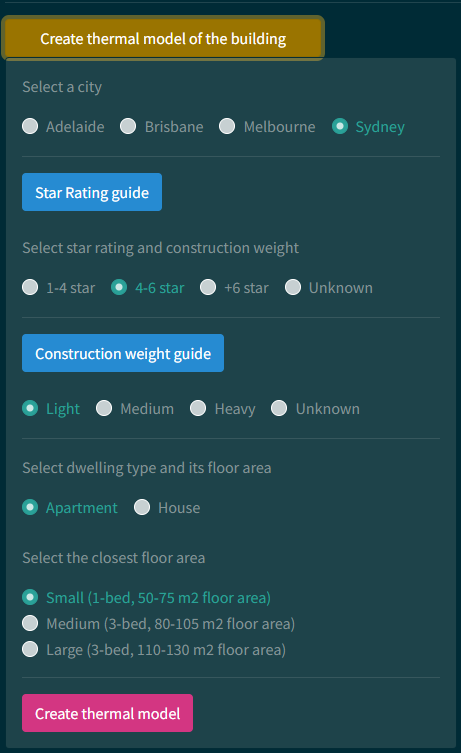
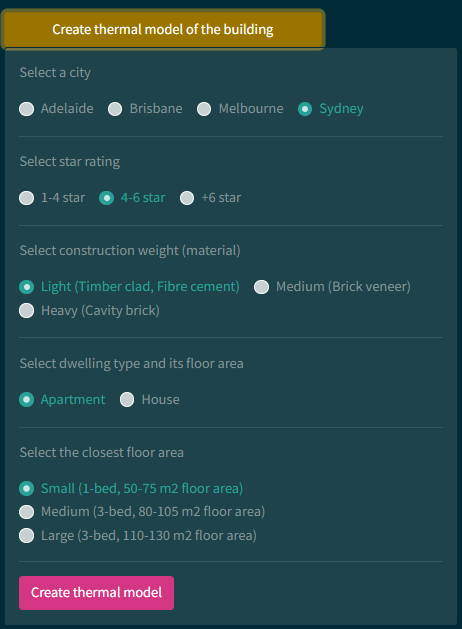
Readme modified

diff --git a/application.py b/application.py
@@ -5,11 +5,8 @@ import callbacks  # noqa: F401
 import callbacks_run  # noqa: F401
 from app import app, application
 from app_components import (
-    AC_year_radio_item,
     PV_orientation_radio_item,
     construction_weight_radio_item,
-    construction_weight_toast,
-    # demand_profile_radio_item,
     demand_questions_radio_item,
     dwelling_type_radio_item,
     floor_area_radio_item,
@@ -18,9 +15,6 @@ from app_components import (
     neutral_temp_select,
     occupancy_checklist,
     star_rating_radio_item,
-    star_rating_toast,
-    tariff_radio_checklist,
-    tariff_table,
     create_tariff_drpdwn,
 )
 
@@ -270,8 +264,7 @@ app.layout = dbc.Container(
                 # Solar Pre-cooling Potential Assessment Tool
 
                 
-                [User guide]  (https://respct.readthedocs.io/en/latest/index.html#)
-                  [Source code](https://github.com/ShayanNaderi/RESPCT) 
+                [Source code and user guide](https://github.com/ShayanNaderi/RESPCT) 
 
                 """,
                             style={"color": "green"},

diff --git a/README.md b/README.md
@@ -15,10 +15,10 @@ Badges can go here
 ## pre-cooling and solar pre-cooling background
 
 Pre-cooling means running the air conditioning (AC) before peak periods, and reducing the indoor temperautre
-below the temperature that is usaully set by occupants. The reduciton of indoor temperature then reduces the temperature
-of thermal mass in the buildings, and the cooled down thermal mass results in lower cooling demand later in the day.
+below the temperature that is usaully set by occupants. The reduction of indoor temperature then reduces the temperature
+of thermal mass in the building, and the cooled down thermal mass results in lower cooling demand later in the day.
 
-If the surplus PV generation from rooftop PV systems is used to pre-cool the building, instead of the imported
+If the surplus PV generation from the rooftop PV system is used to pre-cool the building instead of the imported
 electricity from the grid, it is defined as solar pre-cooling. to learn more about pre-cooling and solar pre-cooling
 please refer to the following papers:
 
@@ -28,42 +28,84 @@ please refer to the following papers:
 ## Overview of the tool
 `RESPCT` is an online web application that allows you simulate pre-cooling and solar pre-cooling for a range of existing
 buildings in Australian building stock. It has a database of the thermal behavior of the available buildings that allows
-you simulate the hourly AC demand, indoor temperature, electricity cost, and the thermal discomfort index.
+you simulate the  AC demand, indoor temperature, electricity cost, and the thermal discomfort index.
 
-![Loading page](./docs/source/_static/loadingPage.PNG)
 
-The user can choose the location, star rating, construction weight, dwelling type, and floor area.
+### Summary page and statistics
+The tool has two tabs. Be selecting the `Solar pre-cooling potential in Australia` at the top left, the user can see
+a range of statistics about the current building in Australia, and their solar pre-cooling potential.
+![tabs](./docs/source/_static/tabs.PNG)
 
-![Loading page](./docs/source/_static/create_thermal_model.PNG)
+![Summary page](./docs/source/_static/summary_page_1.PNG)
 
-There are alos fields for the user to enter their typical occupancy patterns, and thermal comfort expectations (preferred indoor temperature
-during occupied hours). 
+
+![Summary page](./docs/source/_static/savings_summary.PNG)
+
+### How to use the simulation tool
+
+By clicking on `Simulation tool` tab in the top left, the simulation tool appears.
+The user need to answer to a few questions. 
+#### Create thermal model
+The first step is to create the thermal model of the building. The user can
+choose the location, star rating, construction weight, dwelling type, and floor area.
+
+![Thermal model](./docs/source/_static/create_thermal_model.PNG)
+
+#### Define occupied periods
+There are fields for the user to enter their typical occupancy patterns. It is done easily be selecting the occupied periods
+in the checkbox.
 
 ![Loading page](./docs/source/_static/occupancy_pattern.PNG)
+
+#### Define ideal indoor temperature
+
+The preferred indoor temperature during occupied hours and acceptable deviation from the ideal temperature is done under
+the `Ideal indoor temperature button`.
+
 ![Loading page](./docs/source/_static/thermal_comfort.PNG)
 
-The user can also enter the tariff structure and rates.
+#### Tariff structure
+
+There is a database of the available tariffs in Australia, from which the user can choose. 
+
 ![Loading page](docs/source/_static/tariff.PNG)
 
-If the data from household demand (excluding AC demand) is avaialable, the user can upload it to the tool to increase the
-accuracy of the simulation based on households' behavior. Otherwise, there is a database of AC excluded net demand profile
-from around 450 Australian households. The user can choose the demand profile that is similar to their household's
-consumption patterns.
+#### Air conditioning excluded demand
+There is a database of AC excluded net demand profiles from around 450 Australian households.
+The user can choose the demand profile that is similar to their consumption. The result of solar pre-cooling is sensitive
+to the demand profile, and you can try different demand profiles to understand the effect of changing the behaviour on the
+potential savings.
 
 ![Loading page](docs/source/_static/selected_demand.PNG)
 
+
+#### Air condition and PV system
 PV generation and the amount of surplus PV generation after meeting households demand must be available for simulating 
 solar pre-cooling. For simulating the performance of the rooftop PV system, the user needs to enter the rated capacity 
-of the PV system, the location (city), and the orientaion of the panels.
+of the PV system, and the orientaion of the panels.
 
 ![Loading page](docs/source/_static/PV.PNG)
 
-At the end, they can add the created case study, and run the simulation. The user can create multiple case studies to compare 
-them. For example, two case that are similar from all aspects but they have different star rating. This helps the user
+#### Adding the created case study
+
+After entering all the information, the user must choose a name for the case study, and click on `Add the case study`. 
+The user can add as many case studies as they want. For example, two case that are similar from all aspects but they have different star rating. This helps the user
 understand how much the solar pre-cooling potential changes if they renovate their building and implement some energy 
 efficient measures. 
+It is also possible to delete all the case studies by clicking on `Clean all case studies`.
+
+![buttons](docs/source/_static/buttons.PNG)
+
+#### Running the simulation
+
+The last step is to run the solar pre-cooling simulation by clicking on `Run solar pre-cooling`. 
+
+#### Visualization of the reuslts
+
 
 The user can choose different figures from the dropdown to visualize the result of solar pre-cooling.
+The avaialable figures are AC demand, monthly cost savings, thermal discomfort reduction, and surplus PV generation.
+
 ![Loading page](docs/source/_static/results1.PNG)
 
 

diff --git a/docs/source/todo.md b/docs/source/todo.md
@@ -7,6 +7,7 @@ orphan: true
 ```{todolist}
 ```
 1- Add files for medium sized houses
-2- The load profile limits the duration of simulations. add the load profile for spring as well. It comes
+2- modify the legend labels for results
+3- The load profile limits the duration of simulations. add the load profile for spring as well. It comes
 from the file "three_month_demand.csv".
 
